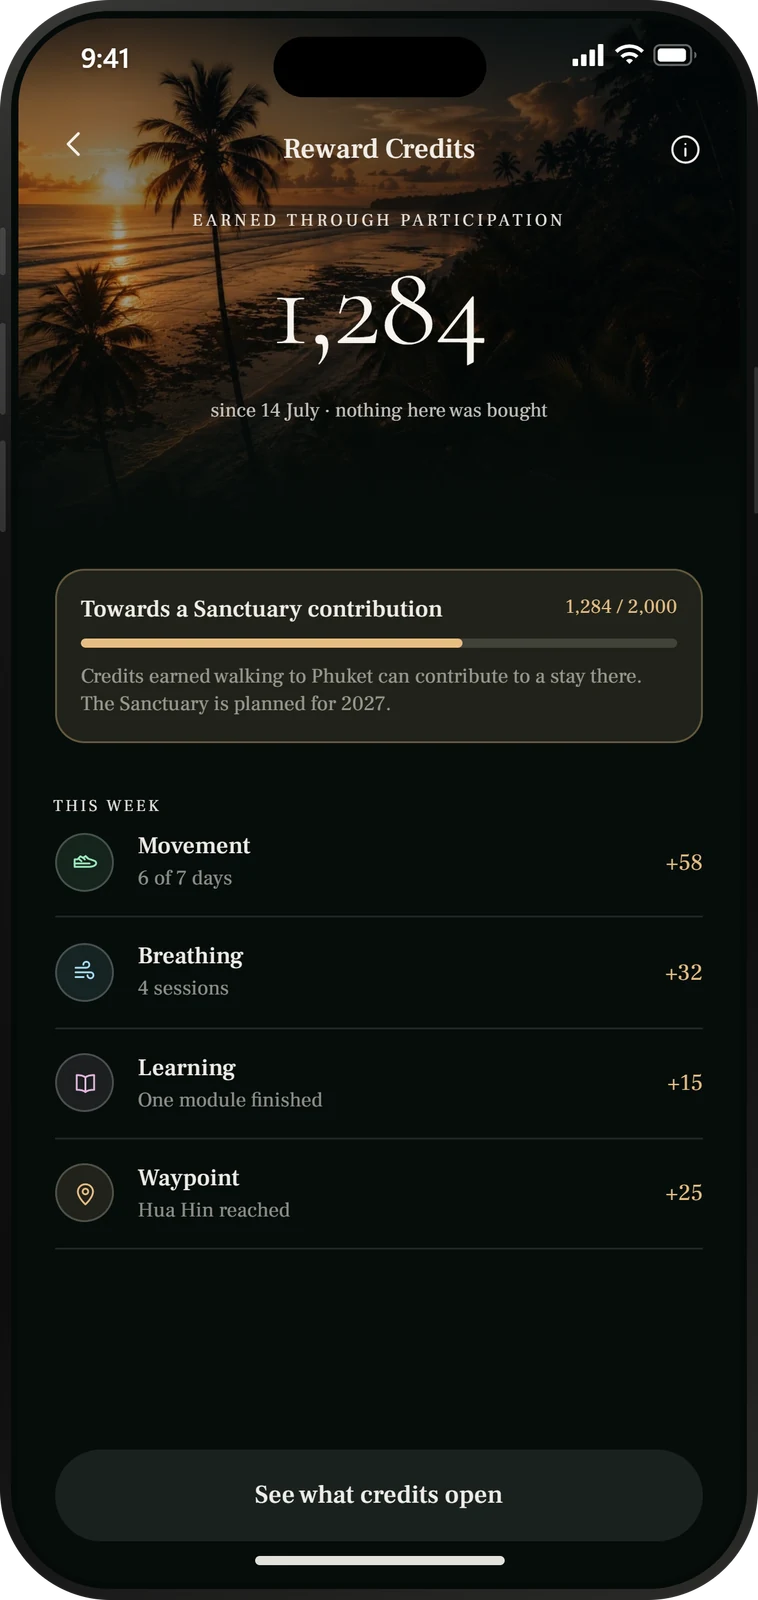
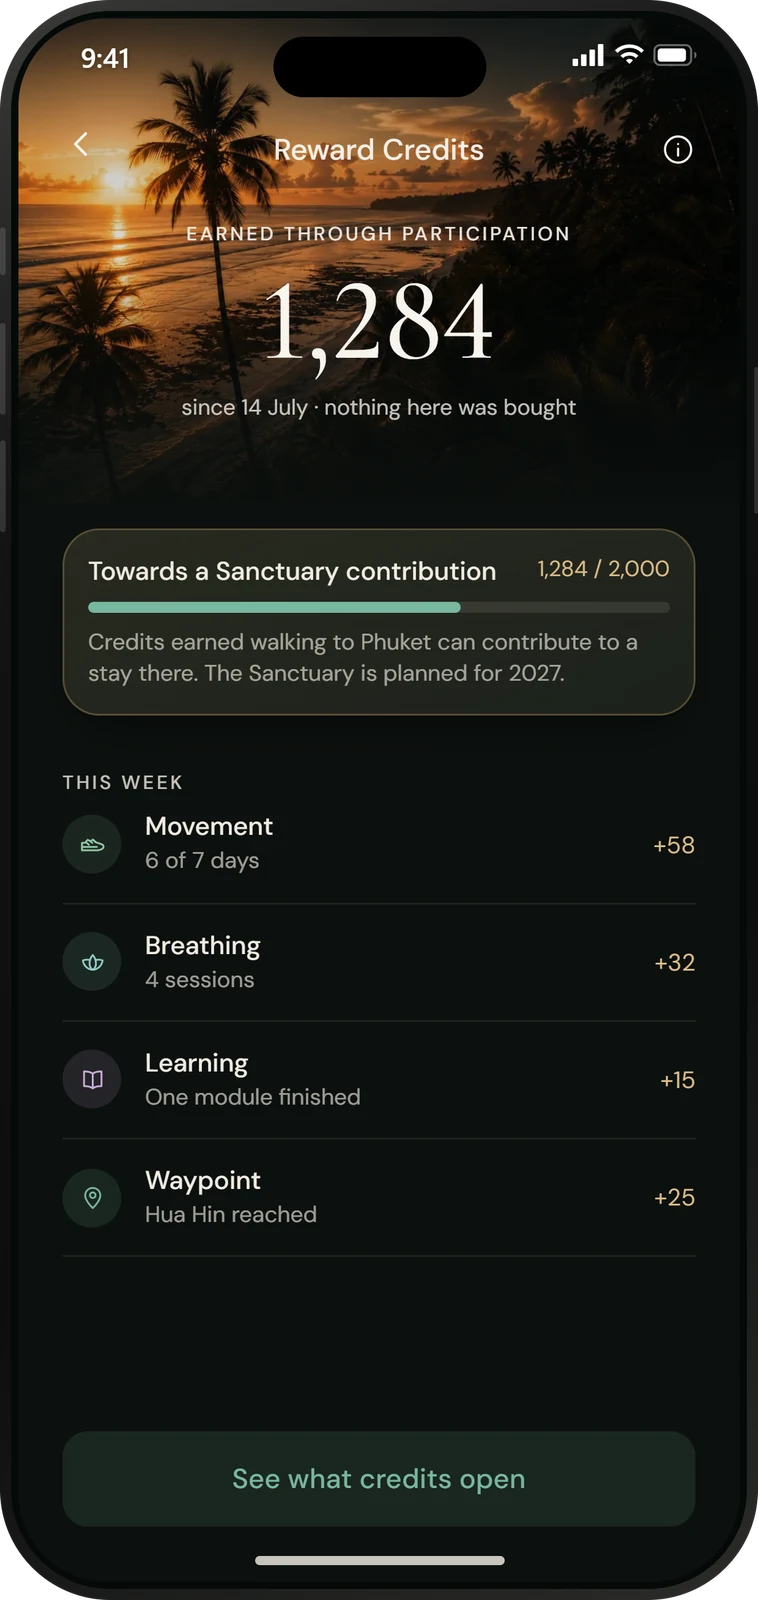
October app screens, hero tagline clear of nav on short laptops, larger Why Now labels
Twelve screens from the October export replace the September set under the
same filenames (two new: app-arrival, app-quest-complete); copy that quotes a
screen moved with it; index callouts re-anchored to the new home layout. The
raw upload folder is removed so it does not deploy.

Claude-Session: https://claude.ai/code/session_01VKjSjrypMLQakLhtSxjyLv

diff --git a/app.html b/app.html
@@ -2276,8 +2276,9 @@ img{height:auto;}
          They replace img-03/04/05, two of which carried a DVT unit price and
          a 24-hour change and were on this project's own do-not-use list.
          Centre is the home screen — the app's real face; the flanks are the
-         two things it is for, a session and the route. -->
-    <img fetchpriority="high" decoding="async" class="hero-phone-shot" id="heroPhoneLeft"  src="images/app-breathing.webp" alt="DAOasis breathing session screen" width="758" height="1600" />
+         two things it is for, the day's walking and the route.
+         Swapped to the October 2026 export (Screens uploaded to GitHub). -->
+    <img fetchpriority="high" decoding="async" class="hero-phone-shot" id="heroPhoneLeft"  src="images/app-steps.webp" alt="DAOasis Move screen: 6,412 of 8,000 steps toward Hua Hin" width="758" height="1600" />
     <img fetchpriority="high" decoding="async" class="hero-phone-shot" id="heroPhone"      src="images/app-home-morning.webp" alt="DAOasis home screen, morning" width="758" height="1600" />
     <img fetchpriority="high" decoding="async" class="hero-phone-shot" id="heroPhoneRight" src="images/app-journey-map.webp" alt="DAOasis journey map, Bangkok to Phuket" width="758" height="1600" />
 
@@ -2360,7 +2361,7 @@ img{height:auto;}
     <div class="how-card">
       <div class="how-step">02</div>
       <div class="how-phone-wrap">
-        <img loading="lazy" decoding="async" src="images/app-approaching.webp" alt="Approaching the Hua Hin waypoint on the journey map." width="758" height="1600" />
+        <img loading="lazy" decoding="async" src="images/app-arrival.webp" alt="Journey one complete: you walked to Phuket, 900 km and six waypoints." width="758" height="1600" />
       </div>
       <div class="how-title">Walk a real-world journey</div>
       <div class="how-text">Your daily habits fuel a Journey across a real route — starting with Bangkok to Phuket, 900km of Thailand. Every step, every completed quest, every boost moves your marker forward.</div>
@@ -2369,7 +2370,7 @@ img{height:auto;}
     <div class="how-card">
       <div class="how-step">03</div>
       <div class="how-phone-wrap">
-        <img loading="lazy" decoding="async" src="images/app-credits.webp" alt="Reward Credits screen" width="758" height="1600" />
+        <img loading="lazy" decoding="async" src="images/app-quest-complete.webp" alt="Quest complete: seven days of hydration, plus 30 Reward Credits." width="758" height="1600" />
       </div>
       <div class="how-title">Earn DRC → $DVT</div>
       <div class="how-text">Consistency earns DAOasis Reward Credits — DRC. DRC is designed to convert, one way and by choice, to $DVT — the on-chain layer. $DVT is designed to carry premium access, the marketplace and Sanctuary stays in Phuket, each introduced in stages as it is built.</div>
@@ -2542,9 +2543,9 @@ img{height:auto;}
         <div class="edy-phone">
           <div class="edy-glow" id="edyGlow"></div>
           <img fetchpriority="low" decoding="async" class="edy-shot" data-s="0" src="images/app-home-morning.webp" width="758" height="1600" alt="The DAOasis home screen: the day's actions as tiles, and 186 km walked toward Hua Hin." />
-          <img fetchpriority="low" decoding="async" class="edy-shot" data-s="1" src="images/app-steps.webp"        width="758" height="1600" alt="The Move screen: 6,412 of 8,000 steps, four point one of six kilometres toward Hua Hin." />
+          <img fetchpriority="low" decoding="async" class="edy-shot" data-s="1" src="images/app-steps.webp"        width="758" height="1600" alt="The Move screen: 6,412 of 8,000 steps, four point eight of six kilometres toward Hua Hin." />
           <img fetchpriority="low" decoding="async" class="edy-shot" data-s="2" src="images/app-sleep.webp"        width="758" height="1600" alt="The Rest screen: seven hours twenty of eight, and the distance boost it buys tomorrow." />
-          <img fetchpriority="low" decoding="async" class="edy-shot" data-s="3" src="images/app-breathing.webp"    width="758" height="1600" alt="The Breathe screen: two minutes fourteen remaining, opening a rest stop at Hua Hin." />
+          <img fetchpriority="low" decoding="async" class="edy-shot" data-s="3" src="images/app-breathing.webp"    width="758" height="1600" alt="The Breathe screen: three minutes today, and the rest stop at Hua Hin is open." />
           <img fetchpriority="low" decoding="async" class="edy-shot" data-s="4" src="images/app-hydration.webp"    width="758" height="1600" alt="The Hydrate screen: one point four of two litres, two more days opening the coastal route." />
           <!-- NOURISH IS NOT A ROW HERE, AND THAT IS DELIBERATE. This section
                shows habits the app actually MEASURES, one screen each. Nourish
@@ -2591,7 +2592,7 @@ img{height:auto;}
           </li>
           <li class="edy-row" style="--edy-c:#7FB2B8;">
             <span class="edy-row-i"><svg viewBox="0 0 24 24" fill="none" stroke="#7FB2B8" stroke-width="1.4" stroke-linecap="round" stroke-linejoin="round" aria-hidden="true"><path d="M12 4v4M8 6c-2 0-4 1.5-4 4s2 4 4 4h8c2 0 4-1.5 4-4s-2-4-4-4"/><path d="M12 14v6M9 17h6"/></svg></span>
-            <span><span class="edy-row-n">Breathe</span><span class="edy-row-t">A rest stop at Hua Hin, not a passing place</span></span>
+            <span><span class="edy-row-n">Breathe</span><span class="edy-row-t">The rest stop at Hua Hin is open</span></span>
             <i class="edy-row-r"></i>
           </li>
           <li class="edy-row" style="--edy-c:#6E9CC9;">
@@ -2818,8 +2819,8 @@ img{height:auto;}
        statement anywhere on the site that credits are not an instrument. -->
   <div class="scr-strip reveal">
     <figure class="scr">
-      <img loading="lazy" decoding="async" src="images/app-credits-source.webp" width="758" height="1600" alt="A list of every Reward Credit earned, with what earned it and when." />
-      <figcaption><b>Where every credit came from</b>Every credit, when it was earned and why. They cannot be bought, sold or transferred, and they are never awarded retrospectively.</figcaption>
+      <img loading="lazy" decoding="async" src="images/app-credits.webp" width="758" height="1600" alt="Reward Credits: 1,284 earned through participation, and what earned them this week." />
+      <figcaption><b>Where every credit came from</b>Earned through participation — movement, breathing, learning, a waypoint reached — and nothing here was bought. Credits cannot be bought, sold or transferred.</figcaption>
     </figure>
     <figure class="scr">
       <img loading="lazy" decoding="async" src="images/app-credits-open.webp" width="758" height="1600" alt="What Reward Credits open: waypoint stories, accountability pairing, a Sanctuary contribution." />

diff --git a/index.html b/index.html
@@ -640,6 +640,24 @@
   .scroll-hint{position:absolute;bottom:calc(3vh + 26px + 34px);left:6%;right:auto;z-index:10;
     text-align:left;color:rgba(247,244,238,0.5);font-size:var(--t-nano);letter-spacing:0.28em;text-transform:uppercase;
     opacity:0;animation:fadeUp 1.3s ease-out forwards;animation-delay:6.55s;}
+  /* SHORT DESKTOP WINDOWS (6 October 2026). On a laptop with the browser
+     chrome showing — 1342x594 was the reported case — the stack is taller
+     than the band between the nav and the bottom padding, and
+     justify-content:center splits the overflow EQUALLY, so half of it went
+     up under the fixed nav and REST · LEARN · EARN · RETURN disappeared
+     behind it (measured 15-38px under the bar at 1101-1440 wide).
+     `safe center` sends any overflow downward instead, the bottom reserve
+     shrinks to the scroll hint's own height, and the headline tracks the
+     viewport height a little harder. Tall windows are untouched. */
+  @media (min-width:801px) and (max-height:780px){
+    .content{justify-content:safe center;
+      padding-top:calc(var(--nav-h) + 3vh);padding-bottom:calc(2vh + 52px);}
+    .h1{font-size:clamp(32px,min(4.6vw,7.2vh),78px);}
+    .scroll-hint{bottom:calc(1.6vh + 14px);}
+  }
+  /* Below ~620px tall the column runs right down to where the hint sits
+     (0px apart at 1101x600), so the hint stands down there. */
+  @media (min-width:801px) and (max-height:620px){ .scroll-hint{display:none;} }
 
   /* The hero route map (.journey-wrap, .wp-label, .wp-sub, #routeMaskPath,
      .wp-group and its five states) was removed on 3 September along with the
@@ -1496,9 +1514,9 @@
   .wn-shift{position:absolute;left:0;top:0;transform:translateY(-14px);
     display:grid;grid-template-columns:auto 1fr;column-gap:12px;align-items:baseline;}
   .wn-n{font-size:13px;letter-spacing:0.16em;color:#D49B69;}
-  .wn-t{font-family:'Cormorant Garamond',serif;font-weight:400;font-size:clamp(19px,min(1.6vw,3vh),25px);
+  .wn-t{font-family:'Cormorant Garamond',serif;font-weight:400;font-size:clamp(21px,min(1.8vw,3.3vh),28px);
     line-height:1.1;color:var(--warm-white);}
-  .wn-d{grid-column:2;margin-top:4px;font-size:var(--t-note);line-height:1.5;color:rgba(247,244,238,0.68);}
+  .wn-d{grid-column:2;margin-top:5px;font-size:14.5px;line-height:1.5;color:rgba(247,244,238,0.72);}
 
   /* Short laptops: the conclusion phase is the tallest thing in the copy
      column. Measured to fit at 1347x597 with these. */
@@ -1506,7 +1524,7 @@
     .wn-copy{padding-top:clamp(64px,10vh,90px);padding-bottom:3vh;}
     .wn-body{font-size:15.5px;line-height:1.6;}
     .wn-evidence{font-size:13.5px;line-height:1.55;}
-    .wn-d{font-size:12.5px;line-height:1.42;}
+    .wn-d{font-size:13px;line-height:1.42;}
   }
   @media (min-width:901px) and (max-height:640px){
     .wn-src{display:none;}
@@ -1544,7 +1562,7 @@
     .wn-live{display:block;}
     .wn-live .wn-n{display:block;margin-bottom:8px;}
     .wn-live .wn-lede{font-size:clamp(20px,5.6vw,25px);}
-    .wn-t{font-size:clamp(17px,4.6vw,21px);}
+    .wn-t{font-size:clamp(18px,5vw,22px);}
     .wn-d{display:none;}
     .wn-shift{column-gap:9px;}
     .wn-mark{width:40px;}
@@ -1784,10 +1802,17 @@
      and the journey section further down this page already introduces
      DRC ("Earn DRC · Quests, learning and referrals turn effort into
      Reward Credits"), so nothing was lost by re-pointing it. */
-  .co1{left:22%;top:40%;transform:translate(-100%,-50%);}
-  .co2{left:22%;top:82%;transform:translate(-100%,-50%);}
-  .co3{left:78%;top:20%;transform:translate(0,-50%);}
-  .co4{left:78%;top:62%;transform:translate(0,-50%);}
+  /* RE-ANCHORED 6 October 2026 for the October export of HM-01, whose
+     layout moved: the journey card is now a six-stop route (dots at 50%)
+     with the next waypoint under it (64%), the habit tiles sit at 84%,
+     and there is no "One small step" band any more — co2 now names the
+     next-waypoint card, which is the screen's own replacement for it.
+     co3 sits on the day card (Hua Hin, 27C). layoutCallouts() separates
+     the two left-hand cards along their leader lines. */
+  .co1{left:15%;top:50%;transform:translate(-100%,-50%);}
+  .co2{left:14%;top:65%;transform:translate(-100%,-50%);}
+  .co3{left:78%;top:24%;transform:translate(0,-50%);}
+  .co4{left:80%;top:84%;transform:translate(0,-50%);}
   .callout.co1 .co-line,.callout.co2 .co-line,
   .callout.co3 .co-line,.callout.co4 .co-line{width:90px;}
   /* co4 is NOT in this list — it already clears the image via its own tuned
@@ -3441,8 +3466,8 @@ img{height:auto;}
       <div class="callout co-dir-left co2" id="co2">
         <div class="co-dot"></div><div class="co-line"></div>
         <div class="co-card">
-          <div class="co-label">One small step</div>
-          <div class="co-text">The day closes on the smallest possible next action. Nothing here is a streak: a day missed costs the day, never the journey.</div>
+          <div class="co-label">The next waypoint</div>
+          <div class="co-text">Thirteen kilometres to Hua Hin. The screen always shows the next place on the road rather than a target to hit, and it updates on its own as you move.</div>
         </div>
       </div>
       <div class="callout co-dir-right co3" id="co3">
@@ -3477,7 +3502,7 @@ img{height:auto;}
     <div class="tm-item"><div class="tm-label">Where you are</div><div class="tm-text">It opens on the day and the road ahead rather than a number — the direction you are going, not yesterday's total.</div></div>
     <div class="tm-item"><div class="tm-label">Your journey</div><div class="tm-text">One marker, nine hundred kilometres. Every habit you complete today moves it forward.</div></div>
     <div class="tm-item"><div class="tm-label">Today's actions</div><div class="tm-text">Move, Rest, Breathe, Hydrate, Nourish and Learn. Six habits on one screen, all feeding the same journey.</div></div>
-    <div class="tm-item"><div class="tm-label">One small step</div><div class="tm-text">The day closes on the smallest possible next action. Nothing here is a streak — a day missed costs the day, never the journey.</div></div>
+    <div class="tm-item"><div class="tm-label">The next waypoint</div><div class="tm-text">Thirteen kilometres to Hua Hin. The screen shows the next place on the road rather than a target to hit, and it updates on its own as you move.</div></div>
   </div>
 </div>
 

diff --git a/CLAUDE.md b/CLAUDE.md
@@ -7204,3 +7204,84 @@ dimmed by design and documented as such above.
 `index.html` · `app.html` · `sanctuary.html` · `web3.html` · `investors.html`
 · `about.html` · **`css/trust.css`** · **`images/journey-m-01.jpg` …
 `journey-m-07.jpg` (NEW, 7 files)**. No JS file changed.
+
+---
+
+## October 2026 app screens · hero tagline under the nav · Why Now labels — 6 October 2026
+
+`index.html` · `app.html` · images. web3.html needed no markup change (same
+filenames, alts still true).
+
+### The new screens
+The founders uploaded 28 screens from the October blueprint export to the repo
+as `Screenshots Github/`. Twelve now ship, **overwriting the existing
+filenames** so every page picks them up (WebP, height 1600, q88,
+`alphaQuality:100`, alpha min 0, 53–123 KB each). The raw folder was then
+**removed from the repo** — 40 MB of PNGs that would otherwise be served
+publicly by Vercel. They are still in git history (commit 592d87a).
+
+| file | screen | used on |
+|---|---|---|
+| app-home-morning | HM-01 | app hero centre, Living Ecosystem 1, index Track ×2, web3 row 4 |
+| app-steps | QU-02 | **app hero left** (was breathing), Ecosystem Move |
+| app-sleep | QU-03 | Ecosystem Rest |
+| app-breathing | QU-15 breathe-today | Ecosystem Breathe |
+| app-hydration | QU-10 hydrate-today | Ecosystem Hydrate |
+| app-journey-map | JO-01 | app hero right, web3 row 1 |
+| app-quests | QU-01 | How It Works 01, web3 row 2 |
+| app-arrival (NEW) | JO-05 | How It Works 02 (was app-approaching) |
+| app-quest-complete (NEW) | QU-06 | How It Works 03 "Earn" (was app-credits) |
+| app-credits | RC-01 | Rewards strip, first figure (was app-credits-source) |
+| app-community | CO-01 | web3 row 5 |
+| app-marketplace | MK-01 | app marketplace scene 0, web3 row 6 + single device |
+
+Deleted as unused: `app-approaching`, `app-home-evening`, `app-credits-source`.
+
+**Copy that moved with the screens:** the Breathe row now reads "The rest stop
+at Hua Hin is open" (verbatim from QU-15); the Move alt is 4.8 of 6.0 km; the
+rewards-strip caption is drawn from RC-01. **HM-01 lost its "One small step"
+band**, so index's co2 callout is now "The next waypoint" (13 km to Hua Hin)
+and all four dots were re-anchored to the new layout (co1 15%/50% route,
+co2 14%/65% next waypoint, co3 78%/24% day card, co4 80%/84% tiles).
+Verified 0 card/card, card/image and card/running-head overlap at six desktop
+sizes.
+
+### STILL THE OLD DESIGN — not in the upload
+`app-module` (LE-02), `app-lesson` (LE-03) — the learning strip, the
+Ecosystem Learn beat and web3 row 3 — and `app-credits-open` (RC-03), the
+rewards strip's second figure. They are the gold-accent September design next
+to green October screens. **Re-export LE-02, LE-03 and RC-03 and drop them in
+under the same filenames.**
+
+### Flagged in the new screens themselves
+- QU-02, QU-03, QU-06 and JO-05 have text **cut off at the right edge** in the
+  export ("…FINISH", "…MORNING", "…YOU ARE READ"). Invisible at site size,
+  but it is in the source files.
+- MK-01 lists WHOOP 5.0 at "299 USD or in DVT" and courses priced in DVT —
+  the same pattern the previous marketplace screen had, but it is a
+  third-party product with a USD price on a page family that bans prices.
+  A content call.
+
+### Hero tagline under the nav on short laptops
+`.content` centred a stack taller than its band, so half the overflow went up
+under the fixed nav — REST · LEARN · EARN · RETURN sat 15–38px BEHIND the bar
+at 1101–1440 wide below ~720px tall. New rule for `min-width:801px and
+max-height:780px`: `justify-content: safe center`, a smaller bottom reserve,
+the headline tracking 7.2vh, and the scroll hint hidden below 620px tall
+(it touched the social row at 1101x600). Kicker now clears the nav by 17–81px
+at every short size; tall windows unchanged.
+
+### Why Now labels
+`.wn-t` 19–25 → **21–28px**, `.wn-d` 13.5 → **14.5px** (13 on short laptops),
+numerals 13px. The mark is 58px in a 100px ring and centred on the node.
+Verified 0 label overlaps and 0 escaping the field at nine sizes, 360 → 1920.
+
+### Verified
+13 pages × 7 sizes (1920x1080 → 360x640), each swept top to bottom: 0
+horizontal overflow, 0 JS errors, 0 broken images, no unexpected 404s.
+
+### Upload
+`index.html` · `app.html` · the twelve `images/app-*.webp` listed above
+(two NEW: `app-arrival.webp`, `app-quest-complete.webp`). Delete
+`images/app-approaching.webp`, `app-home-evening.webp`,
+`app-credits-source.webp` and the `Screenshots Github` folder.
